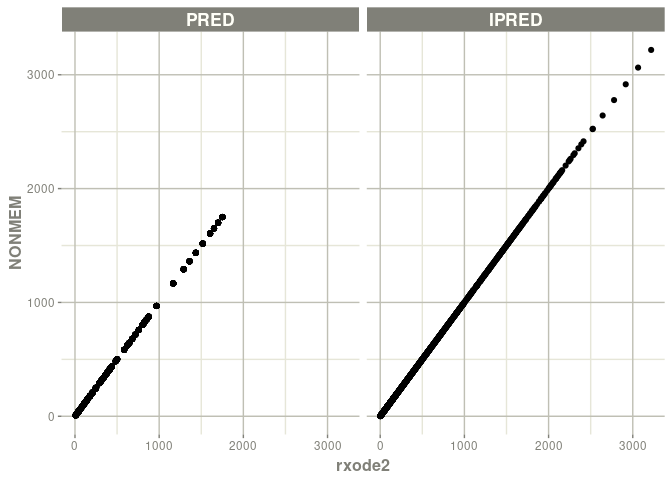
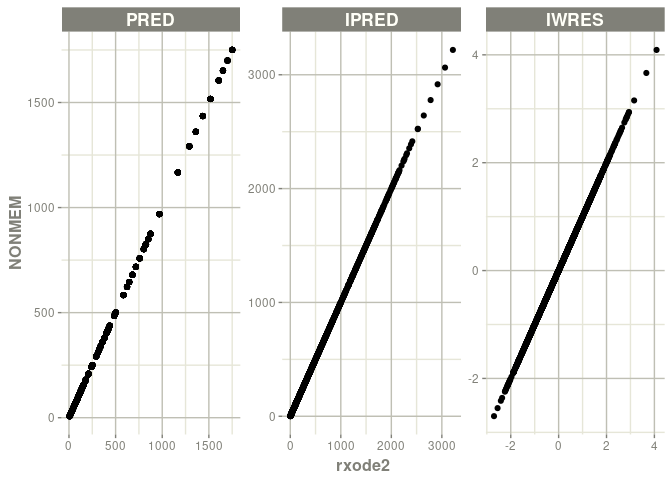
Update readme

diff --git a/README.md b/README.md
@@ -39,7 +39,7 @@ nonmem control stream for the parser to start. For example:
 ``` r
 library(nonmem2rx)
 mod <- nonmem2rx(system.file("mods/cpt/runODE032.ctl", package="nonmem2rx"), lst=".res", save=FALSE)
-#> ℹ getting information from  '/tmp/RtmpWqLShv/temp_libpathf3ecee0b77c/nonmem2rx/mods/cpt/runODE032.ctl'
+#> ℹ getting information from  '/tmp/Rtmpprz41V/temp_libpath17de2532b4735/nonmem2rx/mods/cpt/runODE032.ctl'
 #> ℹ reading in xml file
 #> ℹ done
 #> ℹ reading in phi file
@@ -75,17 +75,14 @@ mod <- nonmem2rx(system.file("mods/cpt/runODE032.ctl", package="nonmem2rx"), lst
 #> ℹ change initial estimate of `eta2` to `0.0993872449483344`
 #> ℹ change initial estimate of `eta3` to `0.101302674763154`
 #> ℹ change initial estimate of `eta4` to `0.0730497519364148`
-#> Warning in `[.data.table`(dt1, , ..name): Both 'name' and '..name' exist in
-#> calling scope. Please remove the '..name' variable in calling scope for
-#> clarity.
-#> ℹ read in nonmem input data (for model validation): /tmp/RtmpWqLShv/temp_libpathf3ecee0b77c/nonmem2rx/mods/cpt/Bolus_2CPT.csv
+#> ℹ read in nonmem input data (for model validation): /tmp/Rtmpprz41V/temp_libpath17de2532b4735/nonmem2rx/mods/cpt/Bolus_2CPT.csv
 #> ℹ ignoring lines that begin with a letter (IGNORE=@)'
 #> ℹ applying names specified by $INPUT
 #> ℹ subsetting accept/ignore filters code: .data[-which((.data$SD == 0)),]
 #> ℹ done
-#> ℹ read in nonmem IPRED data (for model validation): /tmp/RtmpWqLShv/temp_libpathf3ecee0b77c/nonmem2rx/mods/cpt/runODE032.csv
+#> ℹ read in nonmem IPRED data (for model validation): /tmp/Rtmpprz41V/temp_libpath17de2532b4735/nonmem2rx/mods/cpt/runODE032.csv
 #> ℹ done
-#> ℹ read in nonmem ETA data (for model validation): /tmp/RtmpWqLShv/temp_libpathf3ecee0b77c/nonmem2rx/mods/cpt/runODE032.csv
+#> ℹ read in nonmem ETA data (for model validation): /tmp/Rtmpprz41V/temp_libpath17de2532b4735/nonmem2rx/mods/cpt/runODE032.csv
 #> ℹ done
 #> ℹ changing most variables to lower case
 #> ℹ done
@@ -131,6 +128,8 @@ mod
 #>     description <- "BOLUS_2CPT_CLV1QV2 SINGLE DOSE FOCEI (120 Ind/2280 Obs) runODE032"
 #>     validation <- c("IPRED relative difference compared to Nonmem IPRED: 0%; 95% percentile: (0%,0%); rtol=6.89e-06", 
 #>         "IPRED absolute difference compared to Nonmem IPRED: 95% percentile: (2.23e-05, 0.0421); atol=0.00177", 
+#>         "IWRES relative difference compared to Nonmem IWRES: 0%; 95% percentile: (0%,0.05%); rtol=2.04e-05", 
+#>         "IWRES absolute difference compared to Nonmem IWRES: 95% percentile: (5.38e-07, 5.27e-05); atol=1.14e-05", 
 #>         "PRED relative difference compared to Nonmem PRED: 0%; 95% percentile: (0%,0%); rtol=6.41e-06", 
 #>         "PRED absolute difference compared to Nonmem PRED: 95% percentile: (1.41e-07,0.00382) atol=6.41e-06")
 #>     ini({
@@ -207,12 +206,19 @@ The easiest way to visually compare the differences is by the plot
 method:
 
 ``` r
+plot(mod) # for general plot
+```
+
+<img src="man/figures/README-plot-1.png" width="100%" />
+
+``` r
+# you can also see individual comparisons
 plot(mod, log="y", ncol=2, nrow=2,
      xlab="Time (hr)", ylab="Concentrations",
      page=1)
 ```
 
-<img src="man/figures/README-plot-1.png" width="100%" /><img src="man/figures/README-plot-2.png" width="100%" />
+<img src="man/figures/README-plot-2.png" width="100%" />
 
 If you want numerical differences, you can also get these from the
 modified returned `ui` object. For the rtol, atol as follows you have:
@@ -371,9 +377,6 @@ different. For example:
 ``` r
 # full parameter precision
 mod <- suppressMessages(nonmem2rx(system.file("mods/cpt/runODE032.ctl", package="nonmem2rx"), lst=".res"))
-#> Warning in `[.data.table`(dt1, , ..name): Both 'name' and '..name' exist in
-#> calling scope. Please remove the '..name' variable in calling scope for
-#> clarity.
 #> Warning: there are duplicate theta names, not renaming duplicate parameters
 #> Warning: there are duplicate eta names, not renaming duplicate parameters
 
@@ -394,13 +397,8 @@ print(mod$predRtol)
 # now reduce precision by using table/lst output only
 mod <- suppressMessages(nonmem2rx(system.file("mods/cpt/runODE032.ctl", package="nonmem2rx"), lst=".res",
                                   useXml=FALSE, useExt=FALSE,usePhi=FALSE))
-#> Warning in `[.data.table`(dt1, , ..name): Both 'name' and '..name' exist in
-#> calling scope. Please remove the '..name' variable in calling scope for
-#> clarity.
-#> Warning in `[.data.table`(dt1, , ..name): Both 'name' and '..name' exist in
-#> calling scope. Please remove the '..name' variable in calling scope for
-#> clarity.
 #> Warning: there are duplicate theta names, not renaming duplicate parameters
+
 #> Warning: there are duplicate eta names, not renaming duplicate parameters
 
 print(mod$predAtol)
